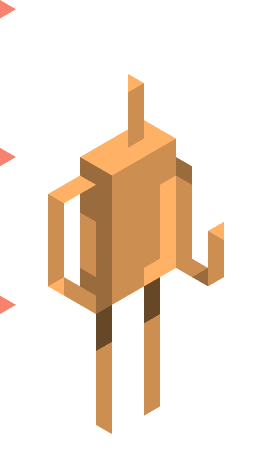
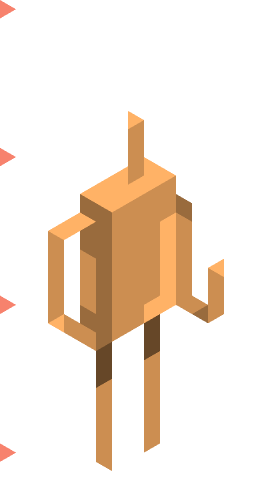
movement

diff --git a/lib/underscore-min.js b/lib/underscore-min.js
@@ -1,0 +1,6 @@
+//     Underscore.js 1.8.3
+//     http://underscorejs.org
+//     (c) 2009-2015 Jeremy Ashkenas, DocumentCloud and Investigative Reporters & Editors
+//     Underscore may be freely distributed under the MIT license.
+(function(){function n(n){function t(t,r,e,u,i,o){for(;i>=0&&o>i;i+=n){var a=u?u[i]:i;e=r(e,t[a],a,t)}return e}return function(r,e,u,i){e=b(e,i,4);var o=!k(r)&&m.keys(r),a=(o||r).length,c=n>0?0:a-1;return arguments.length<3&&(u=r[o?o[c]:c],c+=n),t(r,e,u,o,c,a)}}function t(n){return function(t,r,e){r=x(r,e);for(var u=O(t),i=n>0?0:u-1;i>=0&&u>i;i+=n)if(r(t[i],i,t))return i;return-1}}function r(n,t,r){return function(e,u,i){var o=0,a=O(e);if("number"==typeof i)n>0?o=i>=0?i:Math.max(i+a,o):a=i>=0?Math.min(i+1,a):i+a+1;else if(r&&i&&a)return i=r(e,u),e[i]===u?i:-1;if(u!==u)return i=t(l.call(e,o,a),m.isNaN),i>=0?i+o:-1;for(i=n>0?o:a-1;i>=0&&a>i;i+=n)if(e[i]===u)return i;return-1}}function e(n,t){var r=I.length,e=n.constructor,u=m.isFunction(e)&&e.prototype||a,i="constructor";for(m.has(n,i)&&!m.contains(t,i)&&t.push(i);r--;)i=I[r],i in n&&n[i]!==u[i]&&!m.contains(t,i)&&t.push(i)}var u=this,i=u._,o=Array.prototype,a=Object.prototype,c=Function.prototype,f=o.push,l=o.slice,s=a.toString,p=a.hasOwnProperty,h=Array.isArray,v=Object.keys,g=c.bind,y=Object.create,d=function(){},m=function(n){return n instanceof m?n:this instanceof m?void(this._wrapped=n):new m(n)};"undefined"!=typeof exports?("undefined"!=typeof module&&module.exports&&(exports=module.exports=m),exports._=m):u._=m,m.VERSION="1.8.3";var b=function(n,t,r){if(t===void 0)return n;switch(null==r?3:r){case 1:return function(r){return n.call(t,r)};case 2:return function(r,e){return n.call(t,r,e)};case 3:return function(r,e,u){return n.call(t,r,e,u)};case 4:return function(r,e,u,i){return n.call(t,r,e,u,i)}}return function(){return n.apply(t,arguments)}},x=function(n,t,r){return null==n?m.identity:m.isFunction(n)?b(n,t,r):m.isObject(n)?m.matcher(n):m.property(n)};m.iteratee=function(n,t){return x(n,t,1/0)};var _=function(n,t){return function(r){var e=arguments.length;if(2>e||null==r)return r;for(var u=1;e>u;u++)for(var i=arguments[u],o=n(i),a=o.length,c=0;a>c;c++){var f=o[c];t&&r[f]!==void 0||(r[f]=i[f])}return r}},j=function(n){if(!m.isObject(n))return{};if(y)return y(n);d.prototype=n;var t=new d;return d.prototype=null,t},w=function(n){return function(t){return null==t?void 0:t[n]}},A=Math.pow(2,53)-1,O=w("length"),k=function(n){var t=O(n);return"number"==typeof t&&t>=0&&A>=t};m.each=m.forEach=function(n,t,r){t=b(t,r);var e,u;if(k(n))for(e=0,u=n.length;u>e;e++)t(n[e],e,n);else{var i=m.keys(n);for(e=0,u=i.length;u>e;e++)t(n[i[e]],i[e],n)}return n},m.map=m.collect=function(n,t,r){t=x(t,r);for(var e=!k(n)&&m.keys(n),u=(e||n).length,i=Array(u),o=0;u>o;o++){var a=e?e[o]:o;i[o]=t(n[a],a,n)}return i},m.reduce=m.foldl=m.inject=n(1),m.reduceRight=m.foldr=n(-1),m.find=m.detect=function(n,t,r){var e;return e=k(n)?m.findIndex(n,t,r):m.findKey(n,t,r),e!==void 0&&e!==-1?n[e]:void 0},m.filter=m.select=function(n,t,r){var e=[];return t=x(t,r),m.each(n,function(n,r,u){t(n,r,u)&&e.push(n)}),e},m.reject=function(n,t,r){return m.filter(n,m.negate(x(t)),r)},m.every=m.all=function(n,t,r){t=x(t,r);for(var e=!k(n)&&m.keys(n),u=(e||n).length,i=0;u>i;i++){var o=e?e[i]:i;if(!t(n[o],o,n))return!1}return!0},m.some=m.any=function(n,t,r){t=x(t,r);for(var e=!k(n)&&m.keys(n),u=(e||n).length,i=0;u>i;i++){var o=e?e[i]:i;if(t(n[o],o,n))return!0}return!1},m.contains=m.includes=m.include=function(n,t,r,e){return k(n)||(n=m.values(n)),("number"!=typeof r||e)&&(r=0),m.indexOf(n,t,r)>=0},m.invoke=function(n,t){var r=l.call(arguments,2),e=m.isFunction(t);return m.map(n,function(n){var u=e?t:n[t];return null==u?u:u.apply(n,r)})},m.pluck=function(n,t){return m.map(n,m.property(t))},m.where=function(n,t){return m.filter(n,m.matcher(t))},m.findWhere=function(n,t){return m.find(n,m.matcher(t))},m.max=function(n,t,r){var e,u,i=-1/0,o=-1/0;if(null==t&&null!=n){n=k(n)?n:m.values(n);for(var a=0,c=n.length;c>a;a++)e=n[a],e>i&&(i=e)}else t=x(t,r),m.each(n,function(n,r,e){u=t(n,r,e),(u>o||u===-1/0&&i===-1/0)&&(i=n,o=u)});return i},m.min=function(n,t,r){var e,u,i=1/0,o=1/0;if(null==t&&null!=n){n=k(n)?n:m.values(n);for(var a=0,c=n.length;c>a;a++)e=n[a],i>e&&(i=e)}else t=x(t,r),m.each(n,function(n,r,e){u=t(n,r,e),(o>u||1/0===u&&1/0===i)&&(i=n,o=u)});return i},m.shuffle=function(n){for(var t,r=k(n)?n:m.values(n),e=r.length,u=Array(e),i=0;e>i;i++)t=m.random(0,i),t!==i&&(u[i]=u[t]),u[t]=r[i];return u},m.sample=function(n,t,r){return null==t||r?(k(n)||(n=m.values(n)),n[m.random(n.length-1)]):m.shuffle(n).slice(0,Math.max(0,t))},m.sortBy=function(n,t,r){return t=x(t,r),m.pluck(m.map(n,function(n,r,e){return{value:n,index:r,criteria:t(n,r,e)}}).sort(function(n,t){var r=n.criteria,e=t.criteria;if(r!==e){if(r>e||r===void 0)return 1;if(e>r||e===void 0)return-1}return n.index-t.index}),"value")};var F=function(n){return function(t,r,e){var u={};return r=x(r,e),m.each(t,function(e,i){var o=r(e,i,t);n(u,e,o)}),u}};m.groupBy=F(function(n,t,r){m.has(n,r)?n[r].push(t):n[r]=[t]}),m.indexBy=F(function(n,t,r){n[r]=t}),m.countBy=F(function(n,t,r){m.has(n,r)?n[r]++:n[r]=1}),m.toArray=function(n){return n?m.isArray(n)?l.call(n):k(n)?m.map(n,m.identity):m.values(n):[]},m.size=function(n){return null==n?0:k(n)?n.length:m.keys(n).length},m.partition=function(n,t,r){t=x(t,r);var e=[],u=[];return m.each(n,function(n,r,i){(t(n,r,i)?e:u).push(n)}),[e,u]},m.first=m.head=m.take=function(n,t,r){return null==n?void 0:null==t||r?n[0]:m.initial(n,n.length-t)},m.initial=function(n,t,r){return l.call(n,0,Math.max(0,n.length-(null==t||r?1:t)))},m.last=function(n,t,r){return null==n?void 0:null==t||r?n[n.length-1]:m.rest(n,Math.max(0,n.length-t))},m.rest=m.tail=m.drop=function(n,t,r){return l.call(n,null==t||r?1:t)},m.compact=function(n){return m.filter(n,m.identity)};var S=function(n,t,r,e){for(var u=[],i=0,o=e||0,a=O(n);a>o;o++){var c=n[o];if(k(c)&&(m.isArray(c)||m.isArguments(c))){t||(c=S(c,t,r));var f=0,l=c.length;for(u.length+=l;l>f;)u[i++]=c[f++]}else r||(u[i++]=c)}return u};m.flatten=function(n,t){return S(n,t,!1)},m.without=function(n){return m.difference(n,l.call(arguments,1))},m.uniq=m.unique=function(n,t,r,e){m.isBoolean(t)||(e=r,r=t,t=!1),null!=r&&(r=x(r,e));for(var u=[],i=[],o=0,a=O(n);a>o;o++){var c=n[o],f=r?r(c,o,n):c;t?(o&&i===f||u.push(c),i=f):r?m.contains(i,f)||(i.push(f),u.push(c)):m.contains(u,c)||u.push(c)}return u},m.union=function(){return m.uniq(S(arguments,!0,!0))},m.intersection=function(n){for(var t=[],r=arguments.length,e=0,u=O(n);u>e;e++){var i=n[e];if(!m.contains(t,i)){for(var o=1;r>o&&m.contains(arguments[o],i);o++);o===r&&t.push(i)}}return t},m.difference=function(n){var t=S(arguments,!0,!0,1);return m.filter(n,function(n){return!m.contains(t,n)})},m.zip=function(){return m.unzip(arguments)},m.unzip=function(n){for(var t=n&&m.max(n,O).length||0,r=Array(t),e=0;t>e;e++)r[e]=m.pluck(n,e);return r},m.object=function(n,t){for(var r={},e=0,u=O(n);u>e;e++)t?r[n[e]]=t[e]:r[n[e][0]]=n[e][1];return r},m.findIndex=t(1),m.findLastIndex=t(-1),m.sortedIndex=function(n,t,r,e){r=x(r,e,1);for(var u=r(t),i=0,o=O(n);o>i;){var a=Math.floor((i+o)/2);r(n[a])<u?i=a+1:o=a}return i},m.indexOf=r(1,m.findIndex,m.sortedIndex),m.lastIndexOf=r(-1,m.findLastIndex),m.range=function(n,t,r){null==t&&(t=n||0,n=0),r=r||1;for(var e=Math.max(Math.ceil((t-n)/r),0),u=Array(e),i=0;e>i;i++,n+=r)u[i]=n;return u};var E=function(n,t,r,e,u){if(!(e instanceof t))return n.apply(r,u);var i=j(n.prototype),o=n.apply(i,u);return m.isObject(o)?o:i};m.bind=function(n,t){if(g&&n.bind===g)return g.apply(n,l.call(arguments,1));if(!m.isFunction(n))throw new TypeError("Bind must be called on a function");var r=l.call(arguments,2),e=function(){return E(n,e,t,this,r.concat(l.call(arguments)))};return e},m.partial=function(n){var t=l.call(arguments,1),r=function(){for(var e=0,u=t.length,i=Array(u),o=0;u>o;o++)i[o]=t[o]===m?arguments[e++]:t[o];for(;e<arguments.length;)i.push(arguments[e++]);return E(n,r,this,this,i)};return r},m.bindAll=function(n){var t,r,e=arguments.length;if(1>=e)throw new Error("bindAll must be passed function names");for(t=1;e>t;t++)r=arguments[t],n[r]=m.bind(n[r],n);return n},m.memoize=function(n,t){var r=function(e){var u=r.cache,i=""+(t?t.apply(this,arguments):e);return m.has(u,i)||(u[i]=n.apply(this,arguments)),u[i]};return r.cache={},r},m.delay=function(n,t){var r=l.call(arguments,2);return setTimeout(function(){return n.apply(null,r)},t)},m.defer=m.partial(m.delay,m,1),m.throttle=function(n,t,r){var e,u,i,o=null,a=0;r||(r={});var c=function(){a=r.leading===!1?0:m.now(),o=null,i=n.apply(e,u),o||(e=u=null)};return function(){var f=m.now();a||r.leading!==!1||(a=f);var l=t-(f-a);return e=this,u=arguments,0>=l||l>t?(o&&(clearTimeout(o),o=null),a=f,i=n.apply(e,u),o||(e=u=null)):o||r.trailing===!1||(o=setTimeout(c,l)),i}},m.debounce=function(n,t,r){var e,u,i,o,a,c=function(){var f=m.now()-o;t>f&&f>=0?e=setTimeout(c,t-f):(e=null,r||(a=n.apply(i,u),e||(i=u=null)))};return function(){i=this,u=arguments,o=m.now();var f=r&&!e;return e||(e=setTimeout(c,t)),f&&(a=n.apply(i,u),i=u=null),a}},m.wrap=function(n,t){return m.partial(t,n)},m.negate=function(n){return function(){return!n.apply(this,arguments)}},m.compose=function(){var n=arguments,t=n.length-1;return function(){for(var r=t,e=n[t].apply(this,arguments);r--;)e=n[r].call(this,e);return e}},m.after=function(n,t){return function(){return--n<1?t.apply(this,arguments):void 0}},m.before=function(n,t){var r;return function(){return--n>0&&(r=t.apply(this,arguments)),1>=n&&(t=null),r}},m.once=m.partial(m.before,2);var M=!{toString:null}.propertyIsEnumerable("toString"),I=["valueOf","isPrototypeOf","toString","propertyIsEnumerable","hasOwnProperty","toLocaleString"];m.keys=function(n){if(!m.isObject(n))return[];if(v)return v(n);var t=[];for(var r in n)m.has(n,r)&&t.push(r);return M&&e(n,t),t},m.allKeys=function(n){if(!m.isObject(n))return[];var t=[];for(var r in n)t.push(r);return M&&e(n,t),t},m.values=function(n){for(var t=m.keys(n),r=t.length,e=Array(r),u=0;r>u;u++)e[u]=n[t[u]];return e},m.mapObject=function(n,t,r){t=x(t,r);for(var e,u=m.keys(n),i=u.length,o={},a=0;i>a;a++)e=u[a],o[e]=t(n[e],e,n);return o},m.pairs=function(n){for(var t=m.keys(n),r=t.length,e=Array(r),u=0;r>u;u++)e[u]=[t[u],n[t[u]]];return e},m.invert=function(n){for(var t={},r=m.keys(n),e=0,u=r.length;u>e;e++)t[n[r[e]]]=r[e];return t},m.functions=m.methods=function(n){var t=[];for(var r in n)m.isFunction(n[r])&&t.push(r);return t.sort()},m.extend=_(m.allKeys),m.extendOwn=m.assign=_(m.keys),m.findKey=function(n,t,r){t=x(t,r);for(var e,u=m.keys(n),i=0,o=u.length;o>i;i++)if(e=u[i],t(n[e],e,n))return e},m.pick=function(n,t,r){var e,u,i={},o=n;if(null==o)return i;m.isFunction(t)?(u=m.allKeys(o),e=b(t,r)):(u=S(arguments,!1,!1,1),e=function(n,t,r){return t in r},o=Object(o));for(var a=0,c=u.length;c>a;a++){var f=u[a],l=o[f];e(l,f,o)&&(i[f]=l)}return i},m.omit=function(n,t,r){if(m.isFunction(t))t=m.negate(t);else{var e=m.map(S(arguments,!1,!1,1),String);t=function(n,t){return!m.contains(e,t)}}return m.pick(n,t,r)},m.defaults=_(m.allKeys,!0),m.create=function(n,t){var r=j(n);return t&&m.extendOwn(r,t),r},m.clone=function(n){return m.isObject(n)?m.isArray(n)?n.slice():m.extend({},n):n},m.tap=function(n,t){return t(n),n},m.isMatch=function(n,t){var r=m.keys(t),e=r.length;if(null==n)return!e;for(var u=Object(n),i=0;e>i;i++){var o=r[i];if(t[o]!==u[o]||!(o in u))return!1}return!0};var N=function(n,t,r,e){if(n===t)return 0!==n||1/n===1/t;if(null==n||null==t)return n===t;n instanceof m&&(n=n._wrapped),t instanceof m&&(t=t._wrapped);var u=s.call(n);if(u!==s.call(t))return!1;switch(u){case"[object RegExp]":case"[object String]":return""+n==""+t;case"[object Number]":return+n!==+n?+t!==+t:0===+n?1/+n===1/t:+n===+t;case"[object Date]":case"[object Boolean]":return+n===+t}var i="[object Array]"===u;if(!i){if("object"!=typeof n||"object"!=typeof t)return!1;var o=n.constructor,a=t.constructor;if(o!==a&&!(m.isFunction(o)&&o instanceof o&&m.isFunction(a)&&a instanceof a)&&"constructor"in n&&"constructor"in t)return!1}r=r||[],e=e||[];for(var c=r.length;c--;)if(r[c]===n)return e[c]===t;if(r.push(n),e.push(t),i){if(c=n.length,c!==t.length)return!1;for(;c--;)if(!N(n[c],t[c],r,e))return!1}else{var f,l=m.keys(n);if(c=l.length,m.keys(t).length!==c)return!1;for(;c--;)if(f=l[c],!m.has(t,f)||!N(n[f],t[f],r,e))return!1}return r.pop(),e.pop(),!0};m.isEqual=function(n,t){return N(n,t)},m.isEmpty=function(n){return null==n?!0:k(n)&&(m.isArray(n)||m.isString(n)||m.isArguments(n))?0===n.length:0===m.keys(n).length},m.isElement=function(n){return!(!n||1!==n.nodeType)},m.isArray=h||function(n){return"[object Array]"===s.call(n)},m.isObject=function(n){var t=typeof n;return"function"===t||"object"===t&&!!n},m.each(["Arguments","Function","String","Number","Date","RegExp","Error"],function(n){m["is"+n]=function(t){return s.call(t)==="[object "+n+"]"}}),m.isArguments(arguments)||(m.isArguments=function(n){return m.has(n,"callee")}),"function"!=typeof/./&&"object"!=typeof Int8Array&&(m.isFunction=function(n){return"function"==typeof n||!1}),m.isFinite=function(n){return isFinite(n)&&!isNaN(parseFloat(n))},m.isNaN=function(n){return m.isNumber(n)&&n!==+n},m.isBoolean=function(n){return n===!0||n===!1||"[object Boolean]"===s.call(n)},m.isNull=function(n){return null===n},m.isUndefined=function(n){return n===void 0},m.has=function(n,t){return null!=n&&p.call(n,t)},m.noConflict=function(){return u._=i,this},m.identity=function(n){return n},m.constant=function(n){return function(){return n}},m.noop=function(){},m.property=w,m.propertyOf=function(n){return null==n?function(){}:function(t){return n[t]}},m.matcher=m.matches=function(n){return n=m.extendOwn({},n),function(t){return m.isMatch(t,n)}},m.times=function(n,t,r){var e=Array(Math.max(0,n));t=b(t,r,1);for(var u=0;n>u;u++)e[u]=t(u);return e},m.random=function(n,t){return null==t&&(t=n,n=0),n+Math.floor(Math.random()*(t-n+1))},m.now=Date.now||function(){return(new Date).getTime()};var B={"&":"&amp;","<":"&lt;",">":"&gt;",'"':"&quot;","'":"&#x27;","`":"&#x60;"},T=m.invert(B),R=function(n){var t=function(t){return n[t]},r="(?:"+m.keys(n).join("|")+")",e=RegExp(r),u=RegExp(r,"g");return function(n){return n=null==n?"":""+n,e.test(n)?n.replace(u,t):n}};m.escape=R(B),m.unescape=R(T),m.result=function(n,t,r){var e=null==n?void 0:n[t];return e===void 0&&(e=r),m.isFunction(e)?e.call(n):e};var q=0;m.uniqueId=function(n){var t=++q+"";return n?n+t:t},m.templateSettings={evaluate:/<%([\s\S]+?)%>/g,interpolate:/<%=([\s\S]+?)%>/g,escape:/<%-([\s\S]+?)%>/g};var K=/(.)^/,z={"'":"'","\\":"\\","\r":"r","\n":"n","\u2028":"u2028","\u2029":"u2029"},D=/\\|'|\r|\n|\u2028|\u2029/g,L=function(n){return"\\"+z[n]};m.template=function(n,t,r){!t&&r&&(t=r),t=m.defaults({},t,m.templateSettings);var e=RegExp([(t.escape||K).source,(t.interpolate||K).source,(t.evaluate||K).source].join("|")+"|$","g"),u=0,i="__p+='";n.replace(e,function(t,r,e,o,a){return i+=n.slice(u,a).replace(D,L),u=a+t.length,r?i+="'+\n((__t=("+r+"))==null?'':_.escape(__t))+\n'":e?i+="'+\n((__t=("+e+"))==null?'':__t)+\n'":o&&(i+="';\n"+o+"\n__p+='"),t}),i+="';\n",t.variable||(i="with(obj||{}){\n"+i+"}\n"),i="var __t,__p='',__j=Array.prototype.join,"+"print=function(){__p+=__j.call(arguments,'');};\n"+i+"return __p;\n";try{var o=new Function(t.variable||"obj","_",i)}catch(a){throw a.source=i,a}var c=function(n){return o.call(this,n,m)},f=t.variable||"obj";return c.source="function("+f+"){\n"+i+"}",c},m.chain=function(n){var t=m(n);return t._chain=!0,t};var P=function(n,t){return n._chain?m(t).chain():t};m.mixin=function(n){m.each(m.functions(n),function(t){var r=m[t]=n[t];m.prototype[t]=function(){var n=[this._wrapped];return f.apply(n,arguments),P(this,r.apply(m,n))}})},m.mixin(m),m.each(["pop","push","reverse","shift","sort","splice","unshift"],function(n){var t=o[n];m.prototype[n]=function(){var r=this._wrapped;return t.apply(r,arguments),"shift"!==n&&"splice"!==n||0!==r.length||delete r[0],P(this,r)}}),m.each(["concat","join","slice"],function(n){var t=o[n];m.prototype[n]=function(){return P(this,t.apply(this._wrapped,arguments))}}),m.prototype.value=function(){return this._wrapped},m.prototype.valueOf=m.prototype.toJSON=m.prototype.value,m.prototype.toString=function(){return""+this._wrapped},"function"==typeof define&&define.amd&&define("underscore",[],function(){return m})}).call(this);
+//# sourceMappingURL=underscore-min.map

diff --git a/sketch.js b/sketch.js
@@ -1,20 +1,73 @@
-var tile_height, tile_width;
+var cols, rows, tile_height, tile_width;
 
-var item = {
-  x: 0,
-  y: 0,
-  animations: [],
-  sprite: null,
+var man = {
+  col: 0,
+  row: 0,
+  w: 0,
+  h: 0,
   lives: 0,
-  init: function() {},
-  update: function() {},
-  draw: function() {}
+  sprite: null,
+  animations: [],
+  init: function() {
+    this.w = tile_width;
+    this.h = tile_height;
+    this.col = Math.floor(cols/2);
+    this.row = Math.floor(rows/2-1);
+    this.sprite = createSprite(positionX(this.col), positionY(this.row), this.w, this.h);
+    this.sprite.scale = 0.25;
+    this.sprite.addAnimation("defaultman", this.animations[0]);
   },
-    man = Object.create(item, {}),
-    worm = Object.create(item, {});
+  update: function() {
+    if(keyWentDown("w")) {} else if (keyWentDown("s")) {}
+    if (keyWentDown("a")) {
+      this.col = this.col - 1;
+      if (this.col < 0) this.col = cols-1;
+    } else if (keyWentDown("d")) {
+      this.col = (this.col + 1) % cols;
+    }
+    console.log(this.col)
+    this.sprite.position.x = positionX(this.col);
+    this.sprite.position.y = positionY(this.row);
+    },
+  };
+
+var worm = {
+  col: 0,
+  row: 0,
+  w: 0,
+  h: 0,
+  lives: 0,
+  sprite: null,
+  animations: [],
+  init: function() {
+    this.w = tile_width;
+    this.h = tile_height;
+    this.col = Math.floor(cols/2 + 3);
+    this.row = Math.floor(rows/2 + 2);
+    this.sprite = createSprite(positionX(this.col), positionY(this.row), this.w, this.h);
+    this.sprite.scale = 0.25;
+    this.sprite.addAnimation("defaultworm", this.animations[0]);
+  },
+  update: function() {
+    if(keyWentDown("i")) {
+      this.row = Math.max(this.row - 1, Math.floor(rows/2));
+    } else if (keyWentDown("k")) {
+      this.row = Math.min(this.row + 1, rows - 1);
+        }
+    if (keyWentDown("j")) {
+      this.col = Math.max(this.col - 1, 0);
+    } else if (keyWentDown("l")) {
+      this.col = Math.min((this.col + 1), cols-1);
+    }
+    console.log(this.col)
+    this.sprite.position.x = positionX(this.col);
+    this.sprite.position.y = positionY(this.row);
+    },
+  };
 
 function preload() {
   man.animations.push(loadAnimation("assets/hero.png"));
+  worm.animations.push(loadAnimation("assets/worm.png"));
 }
 
 function setup() {
@@ -22,18 +75,31 @@ function setup() {
   createCanvas(960, 640 * ratio);
   tile_width = 64;
   tile_height = tile_width *ratio;
-  drawGrid();
-
-  man = Object.create(item, {});
-  man.sprite =  createSprite(width/2, height/2, tile_width, tile_height);
-  man.sprite.scale = 0.25;
-  man.sprite.addAnimation("standing", man.animations[0]);
+  cols = Math.floor(width / tile_width);
+  rows = Math.floor(height / tile_height);
+  console.log(cols +","+ rows);
+  man.init();
+  worm.init()
 }
 
 function draw() {
-  // draw stuff here
+  background(255,255,255);
+  drawGrid(); // DEBUG
+
+  man.update();
+  worm.update();
+
+  // draw here
   drawSprites();
-  ellipse(width/2, height/2, 5, 5);
+  ellipse(width/2, height/2, 5, 5); // DEBUG
+}
+
+function positionX(column) {
+  return (column/cols) * width + tile_width/2;
+}
+
+function positionY(row) {
+  return (row/rows) * height;
 }
 
 function drawGrid() {

diff --git a/index.html b/index.html
@@ -1,6 +1,7 @@
 <html>
 <head>
   <meta charset="UTF-8">
+  <script language="javascript" type="text/javascript" src="lib/underscore-min.js"></script>
   <script language="javascript" type="text/javascript" src="lib/p5.js"></script>
   <!-- uncomment lines below to include extra p5 libraries -->
 	<!--<script language="javascript" src="lib/p5.dom.js"></script>-->
